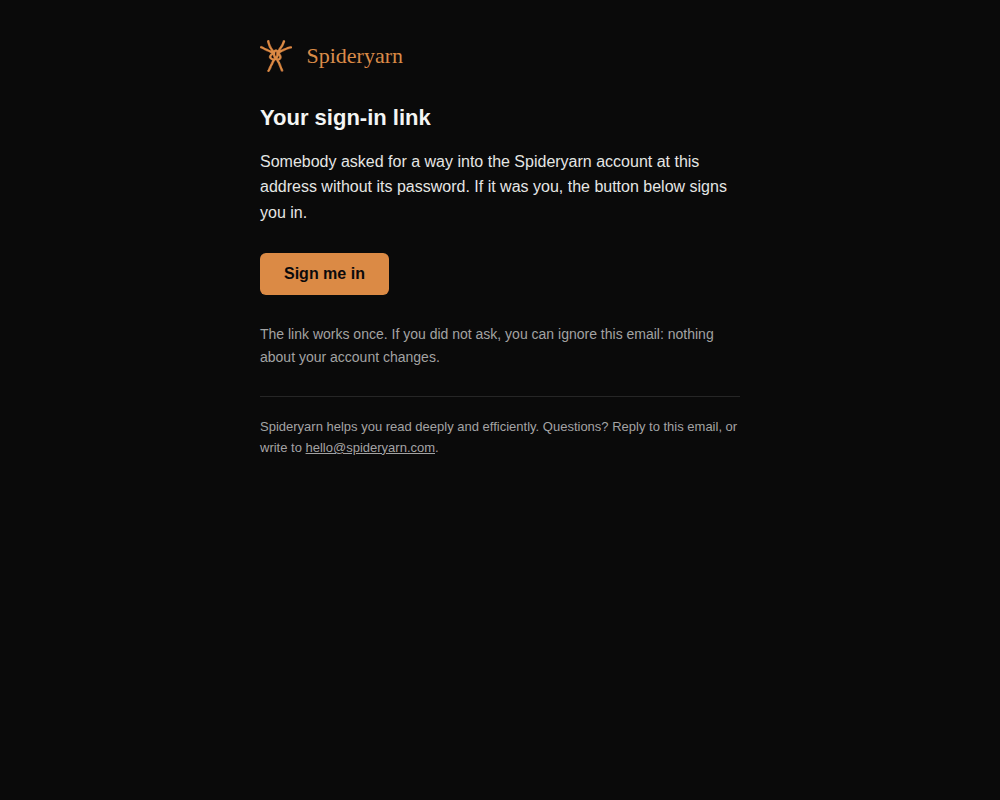
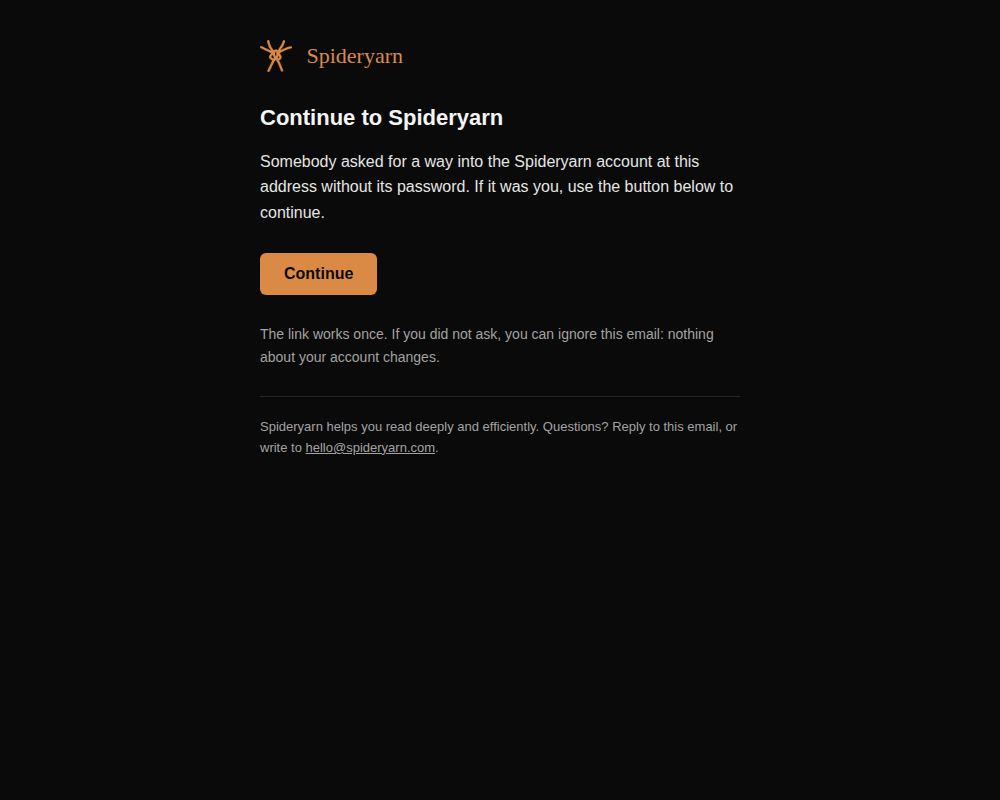
260930h: GPT Sol code-review fixes; the reset email says only "Continue"; 6S note
Sol's code review, taken: the reset email promises neither a new password nor a sign-in,
since a dashboard-sent reset link cannot sign anyone in today. The production writer
refuses any link other than the button and the hello@ mailto, and any template value
other than ConfirmationURL, even inside a comment. Also: a bgcolor fallback, and both
template bodies asserted. Spike re-run on the final copy (PASS), screenshots retaken.

The feedback note, and a line in awaiting-approval.md: the templates are on dev but reach
readers only when the Overseer or Greg runs `supabase-auth-config.ts templates`.

diff --git a/scripts/supabase-auth-config.ts b/scripts/supabase-auth-config.ts
@@ -8,7 +8,7 @@
  *
  * `apply` writes the Google sign-in settings; `smtp` writes the outgoing-mail
  * settings (Resend, since 2026-09-29 — docs/project/email.md); `templates`
- * writes the subject and HTML of the two auth emails the app sends, read from
+ * writes the subject and HTML of the two auth emails in scope, read from
  * supabase/config.toml and supabase/templates/ (since 2026-09-30). They are
  * separate commands so that fixing one never re-sends another's secret.
  *
@@ -37,7 +37,7 @@
  *
  * ## The field names were read, not remembered
  *
- * Every key written below — the Google, SMTP and email-rate-limit fields —
+ * Every key written below — the Google, SMTP, email-rate-limit and template fields —
  * comes from the live OpenAPI document at
  * https://api.supabase.com/api/v1-json, schema `UpdateAuthConfigBody`. That
  * matters because the API takes a partial object and **ignores keys it does not
@@ -169,8 +169,8 @@ const WATCHED = [
 
 /**
  * The auth emails with our own words, as GoTrue names them. Only the two the
- * app actually sends: a sign-up confirmation and a password reset. Adding one
- * is a line here, a section in supabase/config.toml and a file in
+ * work covers: a sign-up confirmation and a password recovery. Adding one is
+ * a line here, a section in supabase/config.toml and a file in
  * supabase/templates/. docs/plans/260930h-auth-emails-in-spideryarn-s-voice.md.
  */
 export const EMAIL_TEMPLATES = ["confirmation", "recovery"] as const;
@@ -184,10 +184,10 @@ export const EMAIL_TEMPLATES = ["confirmation", "recovery"] as const;
  * repo root (the Supabase CLI's convention), so it is resolved against `root`.
  *
  * Refuses a missing section, subject or file, a path other than
- * `supabase/templates/<name>.html`, or a template without exactly one link to
- * `{{ .ConfirmationURL }}`, rather than sending it: a PATCH of `""` would
- * quietly put Supabase's default back, and a swapped path would send the wrong
- * email under the right subject.
+ * `supabase/templates/<name>.html`, any template action other than the one
+ * `{{ .ConfirmationURL }}` action link, or any link other than that action and
+ * the hello@ mailto link. A PATCH of `""` would quietly put Supabase's default
+ * back, and a swapped path would send the wrong email under the right subject.
  */
 export function templatesBody(
   configToml: string,
@@ -206,6 +206,9 @@ export function templatesBody(
     if (typeof subject !== "string" || subject.trim() === "") {
       throw new Error(`supabase/config.toml has no subject for [auth.email.template.${name}].`);
     }
+    if (subject !== subject.trim()) {
+      throw new Error(`[auth.email.template.${name}] subject has leading or trailing whitespace.`);
+    }
     if (typeof contentPath !== "string" || contentPath === "") {
       throw new Error(`supabase/config.toml has no content_path for [auth.email.template.${name}].`);
     }
@@ -214,10 +217,33 @@ export function templatesBody(
       throw new Error(`[auth.email.template.${name}] content_path must be ${expected}, not ${contentPath}.`);
     }
     const html = read(path.resolve(root, contentPath));
-    /* The link itself, not the variable anywhere: a comment that mentions it
-       would pass a plain `includes` with the button deleted. */
-    if (html.split('href="{{ .ConfirmationURL }}"').length !== 2) {
+    /* The rendered link itself, not the variable anywhere: a comment that
+       mentions it — or holds a whole disabled anchor — must not pass with the
+       working button deleted. Go-template actions are still checked against
+       the unstripped source below because Go evaluates them inside comments. */
+    const withoutComments = html.replace(/<!--[\s\S]*?-->/g, "");
+    const hrefs = [
+      ...withoutComments.matchAll(/\bhref\s*=\s*(?:"([^"]*)"|'([^']*)'|([^\s>]+))/gi),
+    ].map(
+      (match) => match[1] ?? match[2] ?? match[3],
+    );
+    if (hrefs.filter((href) => href === "{{ .ConfirmationURL }}").length !== 1) {
       throw new Error(`${contentPath} needs exactly one href="{{ .ConfirmationURL }}", its button.`);
+    }
+    if (
+      hrefs.length !== 2 ||
+      hrefs.filter((href) => href === "mailto:hello@spideryarn.com").length !== 1
+    ) {
+      throw new Error(`${contentPath} must have one action link and one hello@ mailto link, no others.`);
+    }
+    const actions = html.match(/\{\{[\s\S]*?\}\}/g) ?? [];
+    const outsideActions = html.replace(/\{\{[\s\S]*?\}\}/g, "");
+    if (
+      actions.length !== 1 ||
+      actions[0] !== "{{ .ConfirmationURL }}" ||
+      /\{\{|\}\}/.test(outsideActions)
+    ) {
+      throw new Error(`${contentPath} may contain only Go-template action {{ .ConfirmationURL }}.`);
     }
     body[`mailer_subjects_${name}`] = subject;
     body[`mailer_templates_${name}_content`] = html;
@@ -502,22 +528,24 @@ async function main(): Promise<void> {
 
   if (wrong.length > 0) {
     console.error(
-      `\n${wrong.length} setting(s) did not take: ${wrong.map(([k]) => k).join(", ")}\n` +
-        "The API accepts unknown keys silently — check the names against\n" +
+      `\n${wrong.length} setting(s) did not read back exactly as sent: ${wrong.map(([k]) => k).join(", ")}\n` +
+        "The API accepts unknown keys silently, and any server-side normalization would also\n" +
+        "appear here. Inspect the read-back above before retrying; check field names against\n" +
         "https://api.supabase.com/api/v1-json (schema UpdateAuthConfigBody).",
     );
     process.exit(1);
   }
 
+  const hasSecret = Object.keys(body).some(isSecret);
   console.log(
-    `\nAll ${Object.keys(body).length} settings read back as written — the secret by presence only.`,
+    `\nAll ${Object.keys(body).length} settings read back as written${hasSecret ? " — secrets by presence only" : ""}.`,
   );
   console.log(
     command === "smtp"
       ? "Now send a real one: request a password reset, and look for it in Resend's Emails log."
       : command === "templates"
-        ? "Now send a real one: sign up with a fresh address on www.spideryarn.com, and check the\n" +
-          "subject and the button in the inbox (and Resend's Emails log)."
+        ? "Now send both real emails: sign up with a fresh address and request a recovery, then\n" +
+          "check both subjects and buttons in the inbox (and Resend's Emails log)."
         : "Now: ./scripts/check-remote-auth.sh   (google must flip to ON)",
   );
 }

diff --git a/tests/auth-email-templates.test.ts b/tests/auth-email-templates.test.ts
@@ -29,22 +29,28 @@ describe.each(EMAIL_TEMPLATES)("the %s email", (name) => {
      that decision into this HTML. */
   it("has one button, and it carries Supabase's own link unaltered", () => {
     const hrefs = [...html.matchAll(/href="([^"]*)"/g)].map((m) => m[1]);
-    expect(hrefs.filter((h) => h !== "mailto:hello@spideryarn.com")).toEqual([
+    expect(hrefs).toEqual([
       "{{ .ConfirmationURL }}",
+      "mailto:hello@spideryarn.com",
     ]);
   });
 
   it("uses no other template value", () => {
     const actions = [...html.matchAll(/\{\{[^}]*\}\}/g)].map((m) => m[0]);
-    expect(new Set(actions)).toEqual(new Set(["{{ .ConfirmationURL }}"]));
-    /* An unbalanced brace is a Go template parse error, and GoTrue then sends
-       its own default. */
-    expect(html.split("{{").length).toBe(html.split("}}").length);
+    expect(actions).toEqual(["{{ .ConfirmationURL }}"]);
+    /* Anything left over is an incomplete Go-template action. GoTrue would
+       silently fall back to its default template. */
+    expect(html.replace("{{ .ConfirmationURL }}", "")).not.toMatch(/\{\{|\}\}/);
   });
 
   it("is ours, not Supabase's boilerplate", () => {
     expect(html).toContain("Spideryarn");
     expect(html).not.toMatch(/Confirm your signup|Follow this link/i);
+    if (name === "recovery") {
+      /* Dashboard-sent recovery links are implicit-flow links, which this
+         app's PKCE client refuses. The email must not promise they sign in. */
+      expect(html).not.toMatch(/sign(?:-| )?in link|signs you in|sign me in/i);
+    }
   });
 });
 
@@ -58,7 +64,10 @@ describe("templatesBody", () => {
       "mailer_templates_recovery_content",
     ]);
     expect(body.mailer_subjects_confirmation).toBe("Confirm your email for Spideryarn");
-    expect(body.mailer_subjects_recovery).toBe("Your Spideryarn sign-in link");
+    expect(body.mailer_subjects_recovery).toBe("Continue to Spideryarn");
+    expect(body.mailer_templates_confirmation_content).toBe(
+      readFileSync(path.join(ROOT, "supabase", "templates", "confirmation.html"), "utf8"),
+    );
     expect(body.mailer_templates_recovery_content).toBe(
       readFileSync(path.join(ROOT, "supabase", "templates", "recovery.html"), "utf8"),
     );
@@ -68,15 +77,50 @@ describe("templatesBody", () => {
      so each gap must stop the command rather than send "". */
   it("refuses a missing section, subject or file, and a template with no link", () => {
     const without = (needle: string) => CONFIG.replace(needle, "");
-    expect(() => templatesBody(without("[auth.email.template.recovery]"), ROOT)).toThrow();
+    const recoverySection = `[auth.email.template.recovery]
+subject = "Continue to Spideryarn"
+content_path = "./supabase/templates/recovery.html"
+`;
+    expect(() => templatesBody(without(recoverySection), ROOT)).toThrow(
+      /no subject for \[auth\.email\.template\.recovery\]/,
+    );
     expect(() =>
-      templatesBody(without('subject = "Your Spideryarn sign-in link"'), ROOT),
+      templatesBody(without('subject = "Continue to Spideryarn"'), ROOT),
     ).toThrow(/no subject for \[auth\.email\.template\.recovery\]/);
     /* Not merely the variable somewhere in the file: a comment mentioning it
        would satisfy that with the button deleted. GPT Sol, plan review. */
     expect(() =>
       templatesBody(CONFIG, ROOT, () => "<!-- {{ .ConfirmationURL }} --><p>no button</p>"),
     ).toThrow(/exactly one href="\{\{ \.ConfirmationURL \}\}"/);
+  });
+
+  it("refuses another link or another Go-template action", () => {
+    const confirmation = readFileSync(
+      path.join(ROOT, "supabase", "templates", "confirmation.html"),
+      "utf8",
+    );
+    expect(() =>
+      templatesBody(CONFIG, ROOT, () =>
+        confirmation.replace("</body>", '<a href="https://example.com">elsewhere</a></body>'),
+      ),
+    ).toThrow(/one action link and one hello@ mailto link/);
+    expect(() =>
+      templatesBody(CONFIG, ROOT, () => confirmation.replace("</body>", "{{ .Email }}</body>")),
+    ).toThrow(/only Go-template action/);
+  });
+
+  it("does not mistake a commented-out action link for a working one", () => {
+    const confirmation = readFileSync(
+      path.join(ROOT, "supabase", "templates", "confirmation.html"),
+      "utf8",
+    );
+    const withoutWorkingButton = confirmation.replace(
+      /<a href="\{\{ \.ConfirmationURL \}\}"[^>]*>.*?<\/a>/,
+      '<!-- <a href="{{ .ConfirmationURL }}">not rendered</a> -->',
+    );
+    expect(() => templatesBody(CONFIG, ROOT, () => withoutWorkingButton)).toThrow(
+      /exactly one href="\{\{ \.ConfirmationURL \}\}"/,
+    );
   });
 
   /* A swapped or stray path would upload the wrong email under the right

diff --git a/supabase/templates/recovery.html b/supabase/templates/recovery.html
@@ -1,7 +1,8 @@
 <!--
-  Spideryarn: a sign-in link. Supabase's "recovery" template, sent when a password reset is asked for.
-  It says "sign in", not "choose a new password", because the app has no set-a-new-password step yet:
-  docs/plans/260930h-auth-emails-in-spideryarn-s-voice.md. Change the words when that step lands.
+  Spideryarn: continue after a recovery request. Supabase's "recovery" template.
+  It promises neither a password reset nor a completed login: an app-requested PKCE link logs in,
+  but a dashboard-requested implicit link is refused by the current client. Change the words when
+  the set-a-new-password step lands: docs/plans/260930h-auth-emails-in-spideryarn-s-voice.md.
   Local: supabase/config.toml [auth.email.template.recovery]. Production:
   `npx tsx scripts/supabase-auth-config.ts templates`. docs/project/email.md.
   The button's href is Supabase's ConfirmationURL variable, unaltered: Supabase builds that link,
@@ -14,20 +15,20 @@
 <meta name="viewport" content="width=device-width, initial-scale=1">
 <meta name="color-scheme" content="dark">
 <meta name="supported-color-schemes" content="dark">
-<title>Your Spideryarn sign-in link</title>
+<title>Continue to Spideryarn</title>
 </head>
 <body style="margin:0;padding:0;background-color:#0a0a0a;">
-<table role="presentation" width="100%" cellpadding="0" cellspacing="0" border="0" style="background-color:#0a0a0a;">
+<table role="presentation" width="100%" cellpadding="0" cellspacing="0" border="0" bgcolor="#0a0a0a" style="background-color:#0a0a0a;">
 <tr><td align="center" style="padding:40px 16px;">
 <table role="presentation" width="480" cellpadding="0" cellspacing="0" border="0" style="width:100%;max-width:480px;font-family:-apple-system,BlinkMacSystemFont,'Segoe UI',Roboto,Helvetica,Arial,sans-serif;color:#e5e5e5;">
 <tr><td style="padding:0 0 32px 0;">
 <img src="https://www.spideryarn.com/apple-touch-icon.png" width="32" height="32" alt="" style="display:inline-block;vertical-align:middle;border:0;">
 <span style="display:inline-block;vertical-align:middle;margin-left:10px;font-family:Georgia,'Times New Roman',serif;font-size:22px;color:#DB8A45;">Spideryarn</span>
 </td></tr>
-<tr><td style="font-size:22px;line-height:1.3;font-weight:600;color:#f5f5f5;padding:0 0 16px 0;">Your sign-in link</td></tr>
-<tr><td style="font-size:16px;line-height:1.6;padding:0 0 28px 0;">Somebody asked for a way into the Spideryarn account at this address without its password. If it was you, the button below signs you in.</td></tr>
+<tr><td style="font-size:22px;line-height:1.3;font-weight:600;color:#f5f5f5;padding:0 0 16px 0;">Continue to Spideryarn</td></tr>
+<tr><td style="font-size:16px;line-height:1.6;padding:0 0 28px 0;">Somebody asked for a way into the Spideryarn account at this address without its password. If it was you, use the button below to continue.</td></tr>
 <tr><td style="padding:0 0 28px 0;">
-<table role="presentation" cellpadding="0" cellspacing="0" border="0"><tr><td bgcolor="#DB8A45" style="background-color:#DB8A45;border-radius:6px;padding:12px 24px;"><a href="{{ .ConfirmationURL }}" style="color:#0a0a0a;font-size:16px;font-weight:600;text-decoration:none;display:inline-block;">Sign me in</a></td></tr></table>
+<table role="presentation" cellpadding="0" cellspacing="0" border="0"><tr><td bgcolor="#DB8A45" style="background-color:#DB8A45;border-radius:6px;padding:12px 24px;"><a href="{{ .ConfirmationURL }}" style="color:#0a0a0a;font-size:16px;font-weight:600;text-decoration:none;display:inline-block;">Continue</a></td></tr></table>
 </td></tr>
 <tr><td style="font-size:14px;line-height:1.6;color:#a3a3a3;padding:0 0 28px 0;">The link works once. If you did not ask, you can ignore this email: nothing about your account changes.</td></tr>
 <tr><td style="font-size:13px;line-height:1.6;color:#a3a3a3;border-top:1px solid #262626;padding:20px 0 0 0;">Spideryarn helps you read deeply and efficiently. Questions? Reply to this email, or write to <a href="mailto:hello@spideryarn.com" style="color:#a3a3a3;">hello@spideryarn.com</a>.</td></tr>

diff --git a/supabase/templates/confirmation.html b/supabase/templates/confirmation.html
@@ -15,7 +15,7 @@
 <title>Confirm your email for Spideryarn</title>
 </head>
 <body style="margin:0;padding:0;background-color:#0a0a0a;">
-<table role="presentation" width="100%" cellpadding="0" cellspacing="0" border="0" style="background-color:#0a0a0a;">
+<table role="presentation" width="100%" cellpadding="0" cellspacing="0" border="0" bgcolor="#0a0a0a" style="background-color:#0a0a0a;">
 <tr><td align="center" style="padding:40px 16px;">
 <table role="presentation" width="480" cellpadding="0" cellspacing="0" border="0" style="width:100%;max-width:480px;font-family:-apple-system,BlinkMacSystemFont,'Segoe UI',Roboto,Helvetica,Arial,sans-serif;color:#e5e5e5;">
 <tr><td style="padding:0 0 32px 0;">

diff --git a/docs/user-feedback/260930_1310-auth-emails-in-spideryarn-s-voice.md b/docs/user-feedback/260930_1310-auth-emails-in-spideryarn-s-voice.md
@@ -1,0 +1,35 @@
+# Auth emails in Spideryarn's voice
+
+[SPIDERYARN-READING2-6S](https://greg-detre.sentry.io/issues/SPIDERYARN-READING2-6S), a suggestion
+from Greg (admin, verified by `scripts/feedback-reporter.ts`, exit 0), sent from Trajectory on
+`pmc13013618-spya-uekgh6`. The time in the file name is when this session picked the report up. It
+had no Sentry access and the report text came in the brief. **No `reports:` header**, because the
+feedback row id was not in the brief. The next sweep adds it.
+
+> The auth emails still use Supabase's default wording. "Reset your password" and the sign-up
+> confirmation are unbranded boilerplate. Rewrite them in Spideryarn's voice and using Spideryarn's
+> branding. Keep things simple and reliable. Run spikes.
+
+**Ending: Shipped** to `dev`, and **not yet live**. The emails change only when the Overseer or Greg
+runs `npx tsx scripts/supabase-auth-config.ts templates`, a write to the hosted Supabase project's
+configuration that this session was not allowed to make. Resolve 6S; the next feedback sweep does
+the Sentry status write.
+
+What changed:
+
+- **The sign-up confirmation** is now "Confirm your email for Spideryarn": the dark page, the orange
+  spider and wordmark, one orange button, and a line saying a reply reaches a person.
+- **The password-reset email** is now "Continue to Spideryarn", in the same layout. It says
+  "continue", not "choose a new password" or even "sign in", because **the app cannot reset a
+  password today**:
+  there is no "Forgot password?" link, no screen to set a new one, and a reset sent from the Supabase
+  dashboard lands on a link our sign-in code refuses. That gap was there before this change. Building
+  the real reset flow is the plan's first deferred item.
+- Spiked end to end on a throwaway local Supabase: a real sign-up confirmation and a real reset both
+  arrived with our words, and both links signed in. Screenshots are linked from the plan.
+
+Before it counts as live: apply the templates, check Resend's click tracking is off, and send one of
+each. The steps are in the plan's § Applying it to production.
+
+Plan, both GPT Sol reviews, the spike and the screenshots:
+[260930h-auth-emails-in-spideryarn-s-voice.md](../plans/260930h-auth-emails-in-spideryarn-s-voice.md).

diff --git a/docs/user-feedback/awaiting-approval.md b/docs/user-feedback/awaiting-approval.md
@@ -15,6 +15,7 @@ in this directory records which, and the line comes off.
 - 2026-09-30 · SPIDERYARN-READING2-61 · **Shipped; only the privacy wording waits.** The quiz now reads the stored reading-time totals too, and the /privacy bullet names only the outline and margin as their purpose — one clause to add, and published wording is yours · [260930e § Privacy wording for Greg](../plans/260930e-quiz-only-asks-about-what-you-have-read.md)
 - 2026-09-30 · SPIDERYARN-READING2-63 · **Shipped; only a rule waits.** The Earlier tab's Shipped / Not shipped comes from a short header on each note here, compiled into the server; `feedback-reports.md` should tell report sessions to write it, and that doc's wording is yours. Until then new reports read *not shipped* · [260930e § Proposed rule change, for Greg](../plans/260930e-earlier-tab-filters-by-done-from-the-notes.md)
 - 2026-09-30 · SPIDERYARN-READING2-6F · **Shipped; only the move and a re-pin wait.** The check for prior work (the same idea filed again under a new id) is in `overseer.md` and every report brief today. Its proper home is `feedback-reports.md § The run`, which is the sweep's pinned document, so moving it there means re-pinning, and that's yours. It could share one re-pin with 63's line above · [260930g § For Greg](../plans/260930g-check-for-prior-work-before-building-a-feedback-report.md#for-greg)
+- 2026-09-30 · SPIDERYARN-READING2-6S · **Shipped; only the production apply waits.** The sign-up confirmation and reset emails in Spideryarn's words are on `dev`. Readers see them once the Overseer or Greg runs `npx tsx scripts/supabase-auth-config.ts templates` (a production config write, no deploy needed), checks Resend's click tracking is off, and sends one of each. Separately: the app cannot reset a password at all today, and that build is deferred in the plan · [260930h § Applying it to production](../plans/260930h-auth-emails-in-spideryarn-s-voice.md)
 
 ## Attempted abuse, not yet seen by Greg
 

diff --git a/docs/plans/260930h-auth-emails-review-code-sol.md b/docs/plans/260930h-auth-emails-review-code-sol.md
@@ -1,0 +1,18 @@
+What I changed
+
+- `supabase/templates/recovery.html`, `supabase/config.toml`: replaced the still-false sign-in promise with neutral “Continue to Spideryarn” copy.
+- Both templates: added `bgcolor` fallback for email clients that ignore CSS backgrounds.
+- `scripts/supabase-auth-config.ts`: now rejects extra links, commented-out buttons, additional or malformed Go-template actions, whitespace-padded subjects, and misleading read-back results. Improved `show`/completion output.
+- `tests/auth-email-templates.test.ts`: added witnessed regressions for the false recovery promise, extra links/actions, commented-out buttons, and both content-path mappings.
+- `docs/plans/260930h-spike-e2e.mjs`: updated future spike expectations for the neutral recovery copy.
+- `docs/project/email.md` and the plan: corrected claims about the recovery flow, character counts, historical screenshots, and the seven review findings.
+- Verified: all seven earlier findings are now addressed. Focused tests pass, 29/29; full typecheck passes. The normal npm wrapper hit a sandbox IPC `EPERM`, so the identical typecheck script was run through Node’s tsx loader.
+
+Findings not fixed
+
+- **P1 — Wider:** Spideryarn still has no usable password-recovery flow; dashboard-generated recovery links reach the PKCE client in an incompatible form, and there is no new-password screen.
+- **P2 — Wider:** one-use links remain vulnerable to mail scanners, and Resend click tracking still needs checking during production rollout.
+- **P2 — Operational:** the templates have not been applied to or verified against production, as instructed.
+- **nit:** the recovery screenshots show the earlier sign-in wording; the plan now labels them accurately.
+
+Verdict: code is ready after fixes; production rollout and the broader recovery feature remain outstanding.

diff --git a/docs/project/email.md b/docs/project/email.md
@@ -53,7 +53,8 @@ templates were written on 2026-09-30 and not applied by the session that wrote t
 is a production write:
 [260930h](../plans/260930h-auth-emails-in-spideryarn-s-voice.md) has the steps.
 
-Three rules the HTML keeps, and `tests/auth-email-templates.test.ts` pins the first two:
+Three rules the HTML keeps; the production writer refuses the first two when they are broken, and
+`tests/auth-email-templates.test.ts` pins them:
 
 - **The button's link is `{{ .ConfirmationURL }}`, verbatim, and nothing else.** GoTrue builds it,
   so the redirect allow-list still decides where a one-time code may be sent.
@@ -66,11 +67,13 @@ Supabase's, because the app sends none of them.
 
 **A password reset cannot complete in the app yet.** There is no "Forgot password?" link and no
 set-a-new-password screen. A reset sent from the dashboard lands as an implicit-flow link that our
-PKCE client refuses. The plan above has the measurement and the deferred build.
+PKCE client refuses. That is why the recovery email says only "Continue to Spideryarn", rather than
+promising a reset or a completed login. The plan above has the measurement and the deferred build.
 
 ## See also
 
 - [auth.md](auth.md): what the confirmation email is for, and the sign-in flow around it
 - [website-text.md § The contact address](website-text.md#the-contact-address): why the sender is
   `hello@`
-- [`scripts/supabase-auth-config.ts`](../../scripts/supabase-auth-config.ts): the `smtp` command
+- [`scripts/supabase-auth-config.ts`](../../scripts/supabase-auth-config.ts): the `smtp` and
+  `templates` commands
